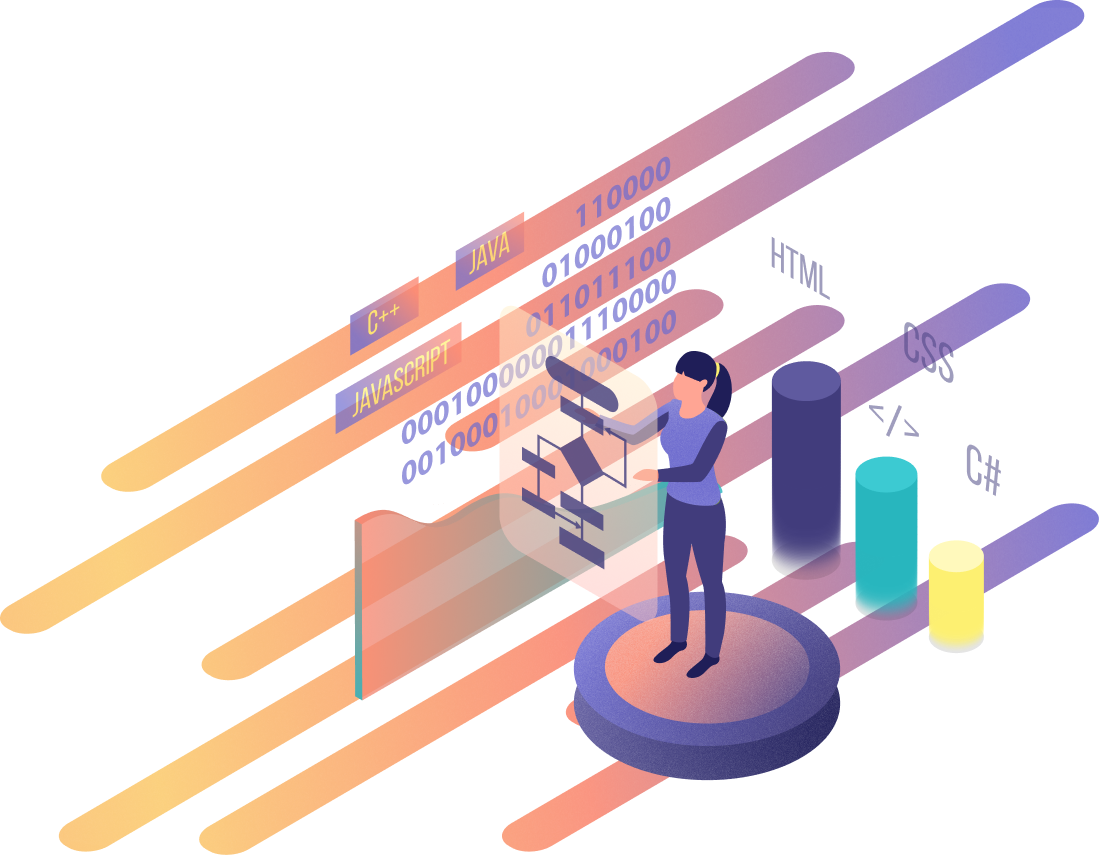
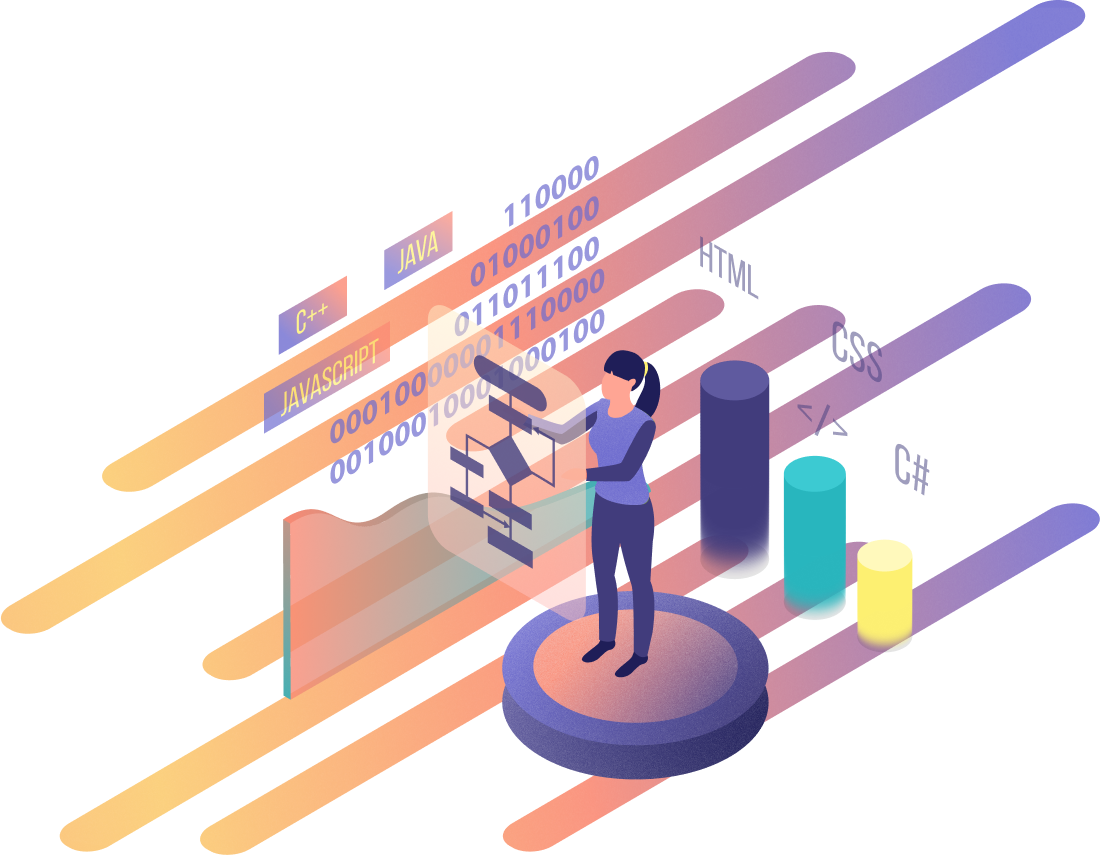
add image to form

Changed region(s): [[0.2166, 0.1825, 0.9281, 0.9123]]

diff --git a/src/components/landing/pages/main/Form/Form.tsx b/src/components/landing/pages/main/Form/Form.tsx
@@ -42,7 +42,35 @@ const Form: React.FC = () => {
             width={1099}
             height={855}
             alt=""
-            className={s.Form_Image}
+            quality={100}
+            className={`${s.Form_Image} ${s.Form_Image__Desktop}`}
+          />
+
+          <Image
+            src="/pictures/images/main/main-form-1024.png"
+            width={653}
+            height={581}
+            alt=""
+            quality={100}
+            className={`${s.Form_Image} ${s.Form_Image__Laptop}`}
+          />
+
+          <Image
+            src="/pictures/images/main/main-form-768.png"
+            width={486}
+            height={531}
+            alt=""
+            quality={100}
+            className={`${s.Form_Image} ${s.Form_Image__Tablet}`}
+          />
+
+          <Image
+            src="/pictures/images/main/main-form-360.png"
+            width={556}
+            height={433}
+            alt=""
+            quality={100}
+            className={`${s.Form_Image} ${s.Form_Image__Mobile}`}
           />
 
           <BaseText className={s.Form_Title} as="h2">

diff --git a/src/components/landing/pages/main/Form/Form.module.scss b/src/components/landing/pages/main/Form/Form.module.scss
@@ -140,11 +140,44 @@
 
   &_Image {
     position: absolute;
-    z-index: 3;
-    top: em(-112px);
-    right: em(-138px);
-    width: em(1099px);
-    height: em(855px);
+    z-index: 1;
+    display: none;
+    &__Desktop {
+      top: em(-112px);
+      right: em(-138px);
+      width: em(1099px);
+      height: em(855px);
+      @include ifdesktop {
+        display: block;
+      }
+    }
+    &__Laptop {
+      top: em(-80px);
+      right: em(-84px);
+      width: em(653px);
+      height: em(581px);
+      @include iflaptop {
+        display: block;
+      }
+    }
+    &__Tablet {
+      top: em(-74px);
+      right: em(-62px);
+      width: em(486px);
+      height: em(531px);
+      @include iftablet {
+        display: block;
+      }
+    }
+    &__Mobile {
+      top: em(317px);
+      right: em(-118px);
+      width: em(556px);
+      height: em(433px);
+      @include ifmobile {
+        display: block;
+      }
+    }
   }
 }
 

diff --git a/src/view/landing/Main/Main.tsx b/src/view/landing/Main/Main.tsx
@@ -14,11 +14,11 @@ const Main: React.FC = () => {
   return (
     <div className={s.Main}>
       <Header />
-      {/* <Expertise />
+      <Expertise />
       <Solutions />
       <HowWeWork />
       <Achievements />
-      <Technologies /> */}
+      <Technologies />
       <Form />
     </div>
   );
